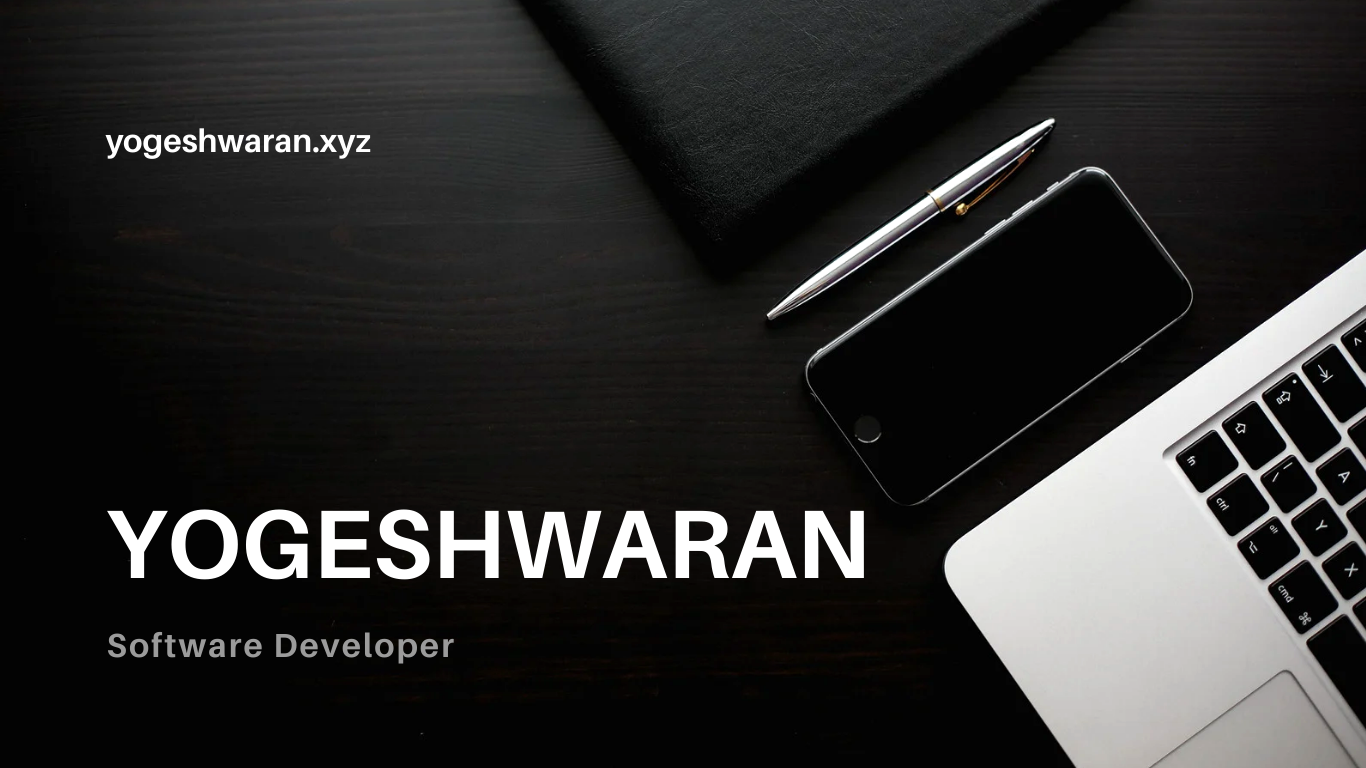
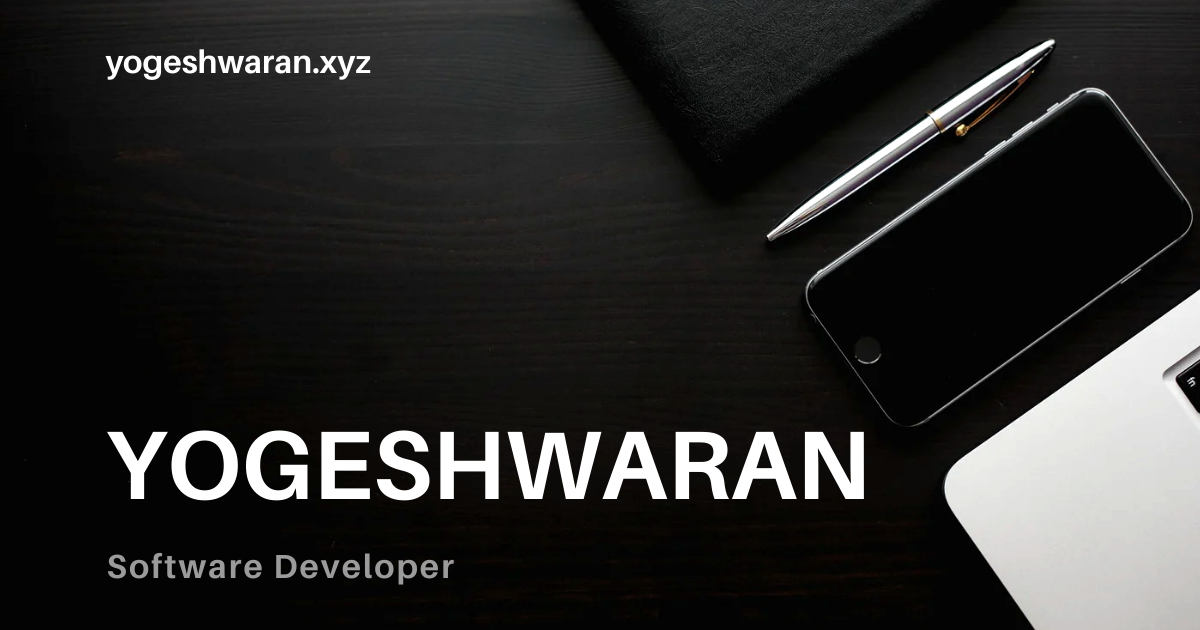
Updates

diff --git a/index.html b/index.html
@@ -1,1 +1,1 @@
-<!doctype html><html lang="en"><head><meta charset="utf-8"/><link rel="icon" href="/logo.png"/><meta name="viewport" content="width=device-width,initial-scale=1"/><meta property="og:title" content="Yogeshwaran"/><meta property="og:description" content="Software Developer"/><meta property="og:image" content="https://yogeshwaran99.github.io/portfolio/preview.png"/><meta property="og:url" content="https://yogeshwaran99.github.io/portfolio/"/><meta property="og:type" content="website"/><meta name="twitter:card" content="summary_large_image"><meta name="twitter:title" content="Yogeshwaran | Software Developer"><meta name="twitter:description" content="Software Developer"><meta name="twitter:image" content="https://yogeshwaran99.github.io/portfolio/preview.png"/><title>Yogeshwaran</title><link href="https://db.onlinewebfonts.com/c/2b0804c9f9d1a74efc52660586772abc?family=Angus-Regular" rel="stylesheet"><style>*{font-family:"IBM Plex Mono",serif;margin:0}</style><script defer="defer" src="/static/js/main.55935747.js"></script><link href="/static/css/main.8799d035.css" rel="stylesheet"></head><body><noscript>You need to enable JavaScript to run this app.</noscript><div id="root"></div></body></html>
+<!doctype html><html lang="en"><head><meta charset="utf-8"/><link rel="icon" href="/logo.png"/><meta name="viewport" content="width=device-width,initial-scale=1"/><meta property="og:title" content="Yogeshwaran"/><meta property="og:description" content="Software Developer"/><meta property="og:image" content="https://yogeshwaran.xyz/preview.png"/><meta property="og:url" content="https://yogeshwaran.xyz"/><meta property="og:type" content="website"/><meta property="og:image:width" content="1200"/><meta property="og:image:height" content="630"/><meta name="twitter:card" content="summary_large_image"><meta name="twitter:title" content="Yogeshwaran | Software Developer"><meta name="twitter:description" content="Software Developer"><meta name="twitter:image" content="https://yogeshwaran.xyz/preview.png"/><title>Yogeshwaran</title><link href="https://db.onlinewebfonts.com/c/2b0804c9f9d1a74efc52660586772abc?family=Angus-Regular" rel="stylesheet"><style>*{font-family:"IBM Plex Mono",serif;margin:0}</style><script defer="defer" src="/static/js/main.55935747.js"></script><link href="/static/css/main.8799d035.css" rel="stylesheet"></head><body><noscript>You need to enable JavaScript to run this app.</noscript><div id="root"></div></body></html>
